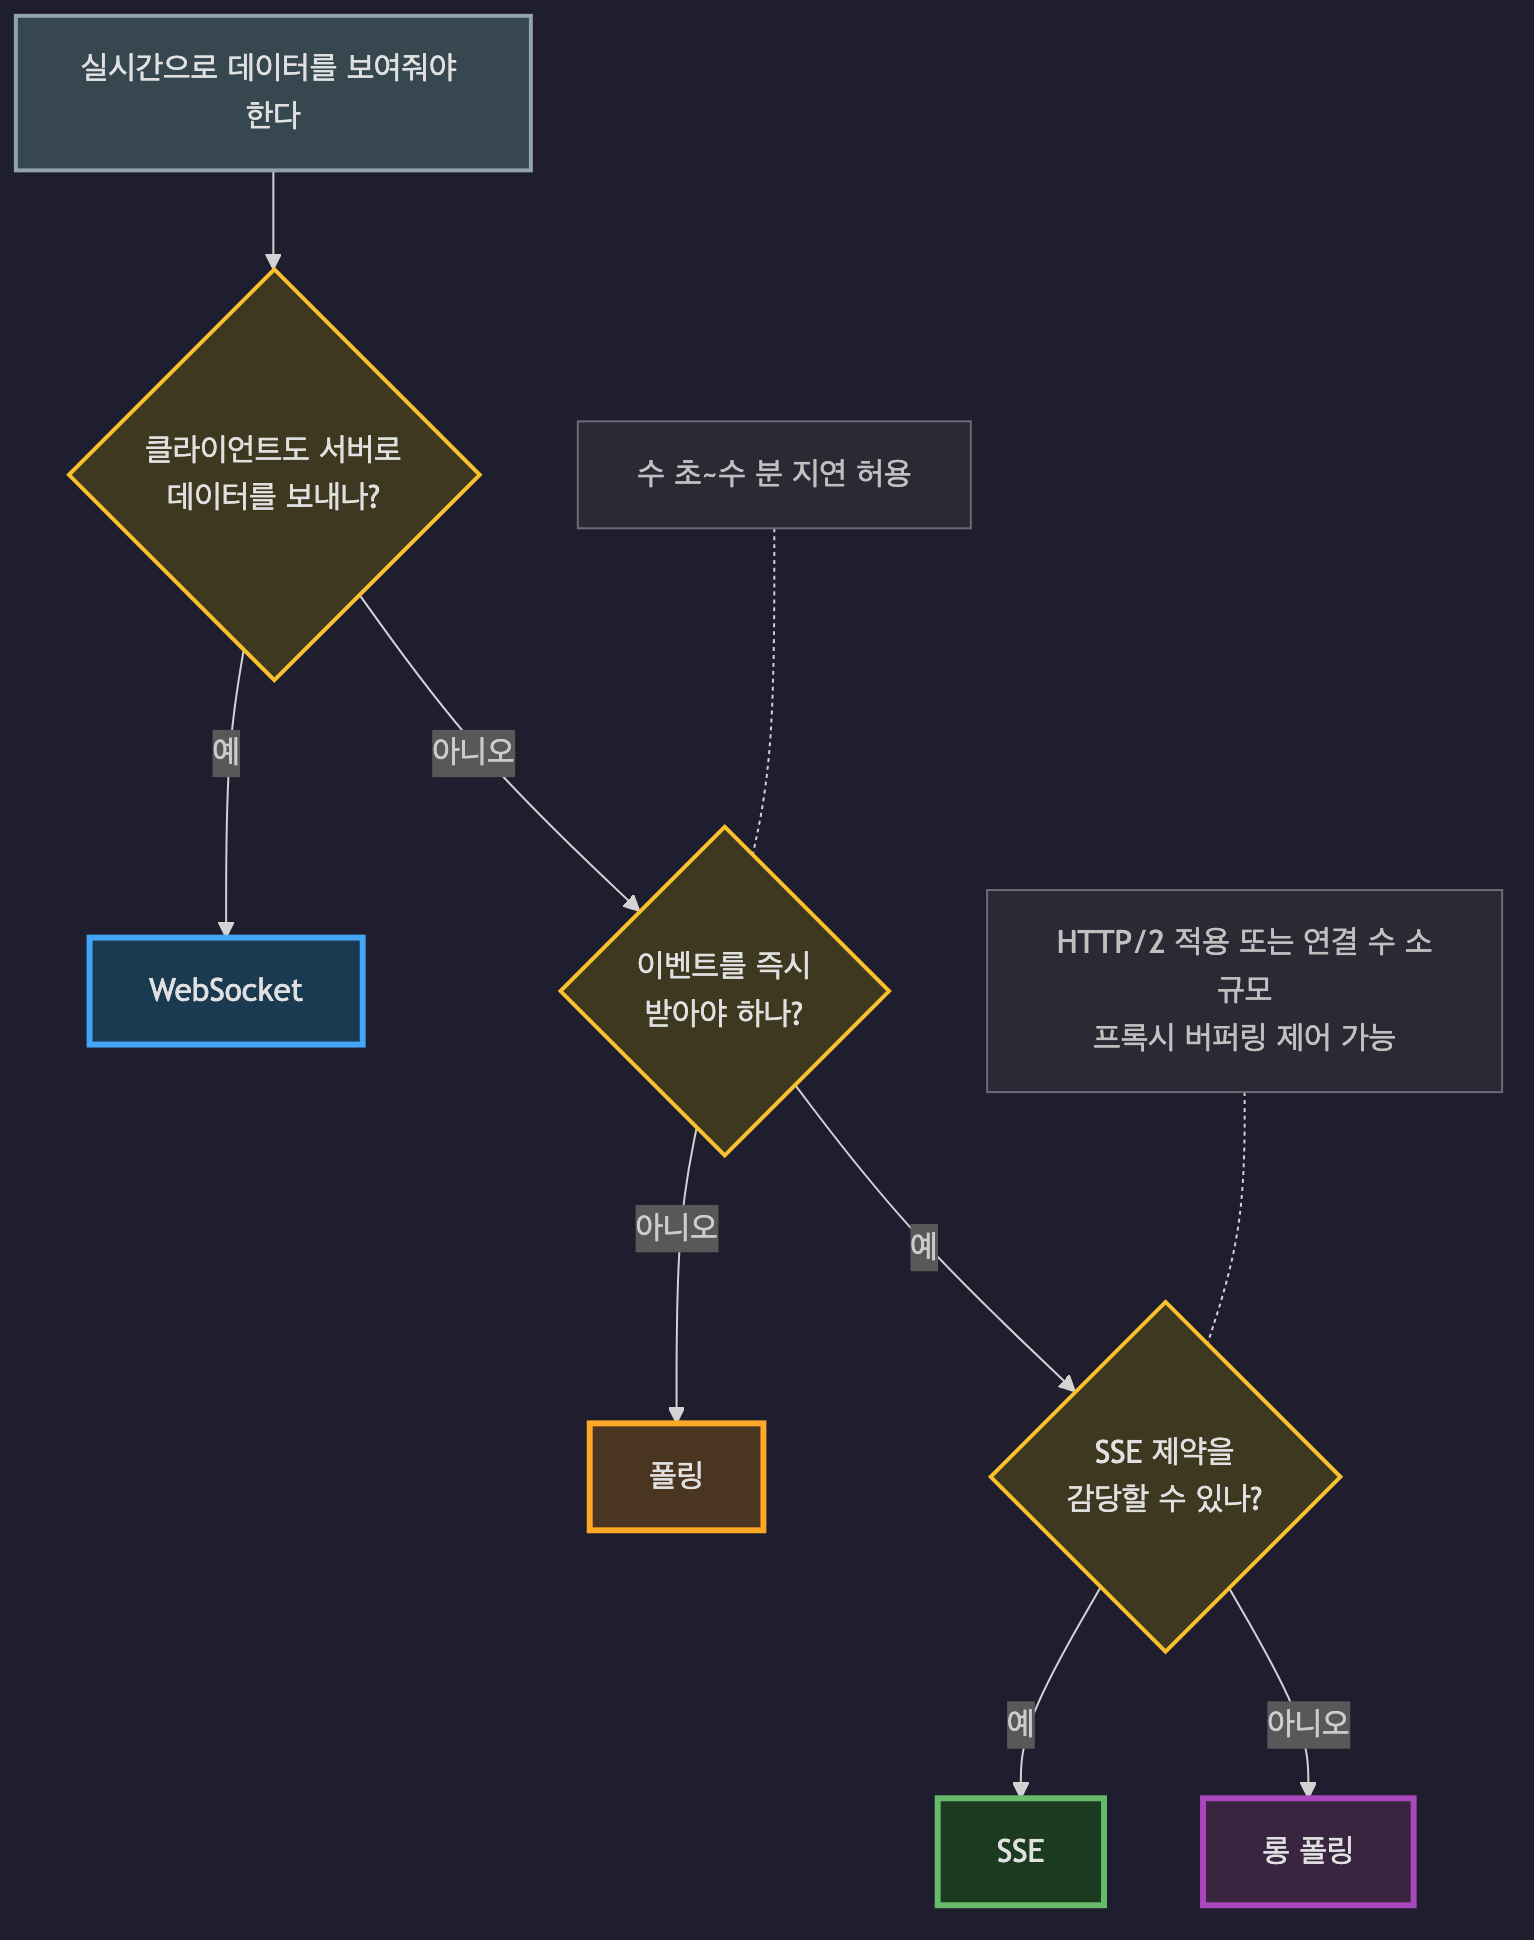
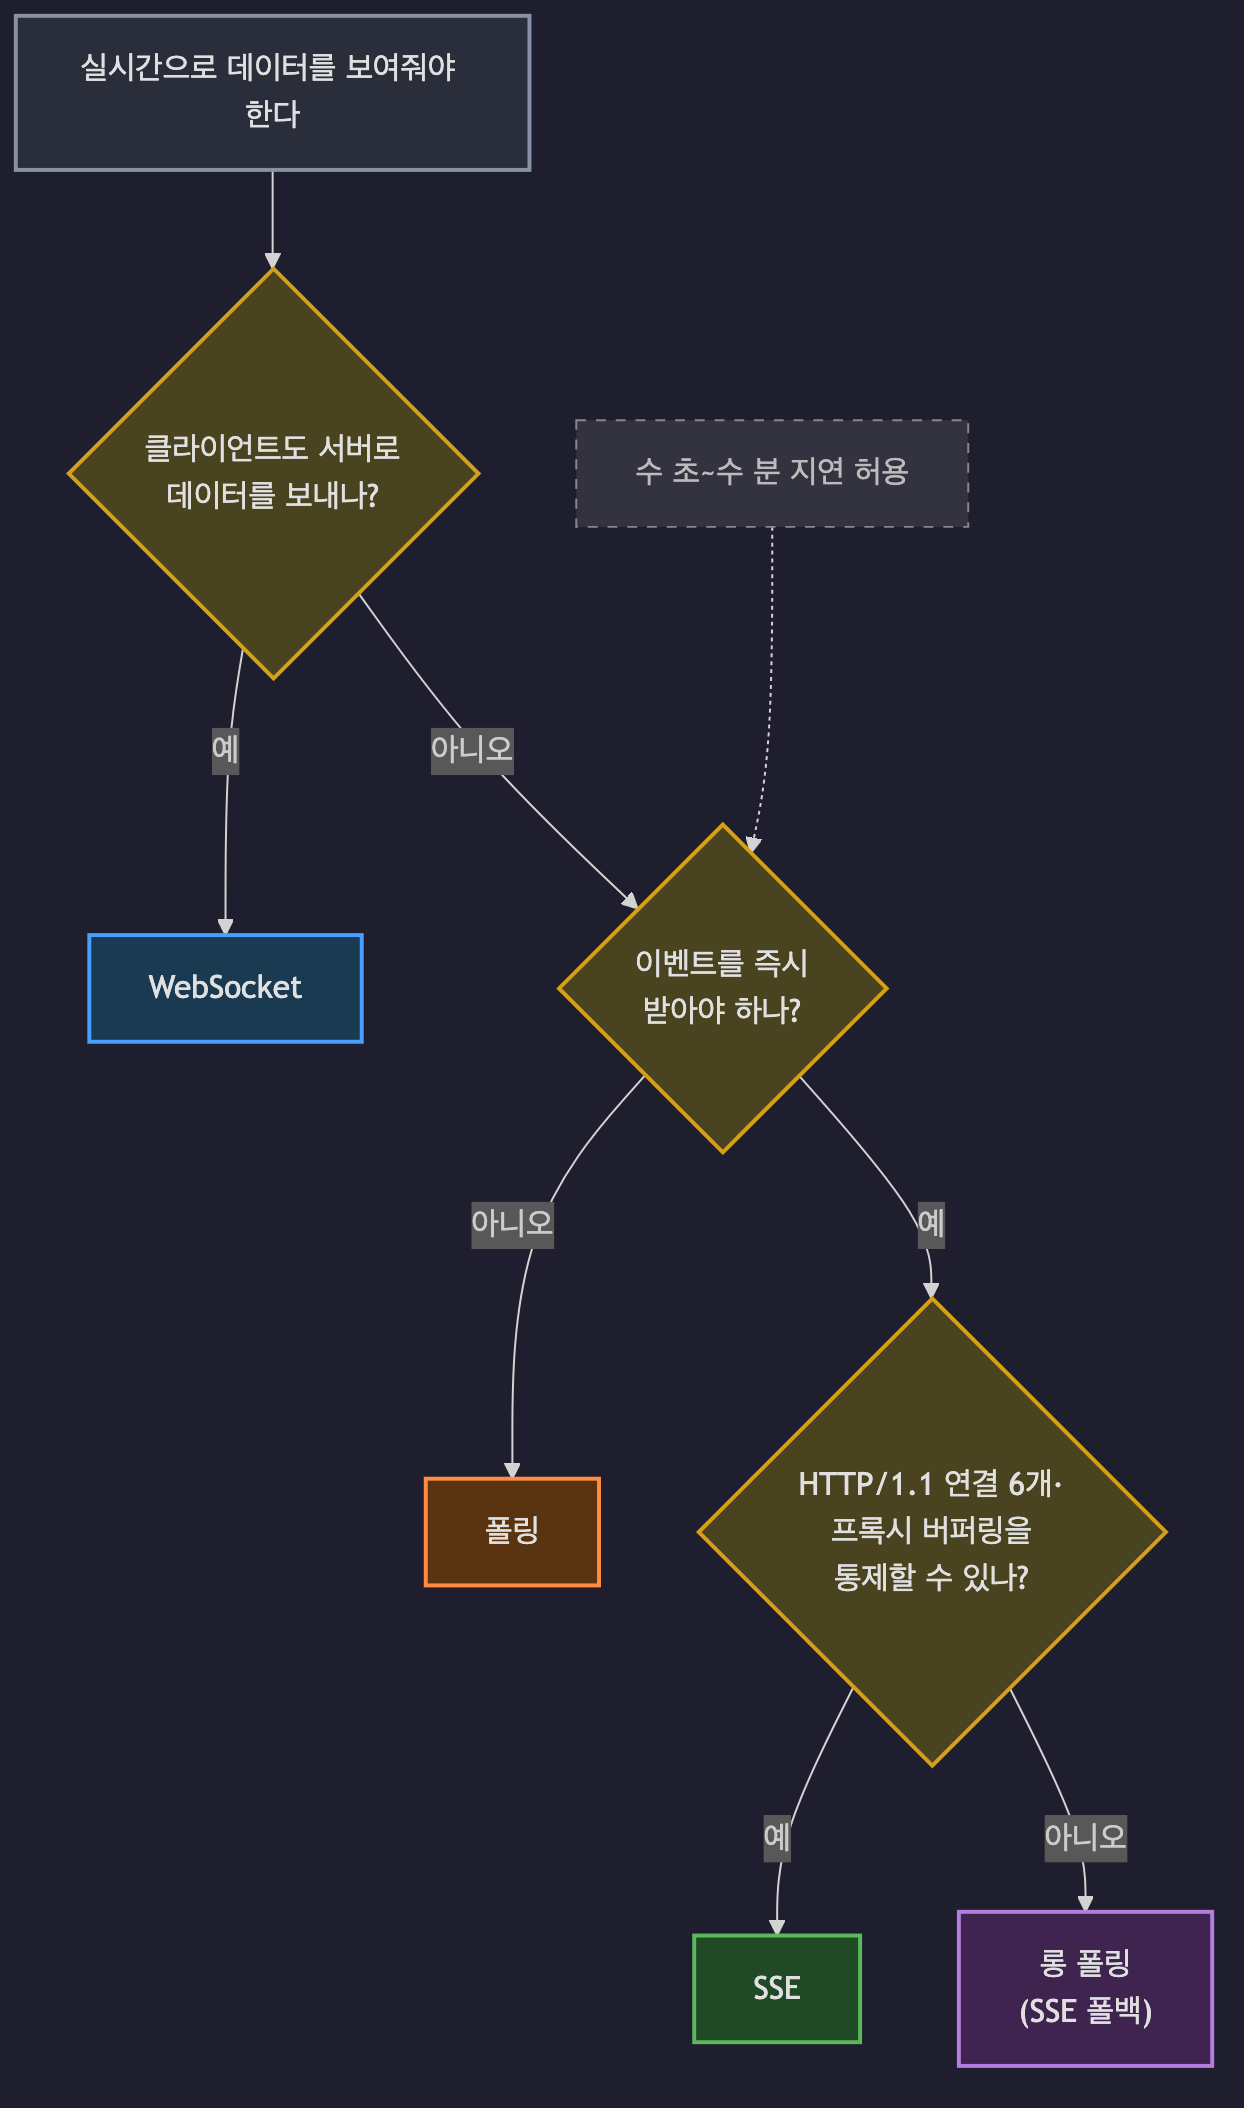
fix(blog): 선택 플로우차트의 'SSE 제약' 모호성과 롱 폴링 계층 오해 정정
마지막 분기의 'SSE 제약'이 떠 있는 점선 주석 박스로만 정의돼
분기 노드와 한 몸으로 읽히지 않았다. 추상어를 없애고 구체 조건
'HTTP/1.1 연결 6개·프록시 버퍼링을 통제할 수 있나?'를 노드에
직접 박아 주석 박스를 제거

롱 폴링이 트리 맨 끝 말단 노드에 놓여 SSE보다 나은 최종 선택처럼
읽혔다. 본문은 롱 폴링을 폴백으로 서술하는데 그림이 이를 배반했다.
말단을 '롱 폴링 (SSE 폴백)'으로 표시하고, 그림 5 뒤에 SSE 제약의
정의와 롱 폴링이 대체재임을 밝히는 단락을 추가

diff --git a/content/posts/realtime-communication-polling-sse-websocket.md b/content/posts/realtime-communication-polling-sse-websocket.md
@@ -405,6 +405,8 @@ SSE와 달리 재연결을 직접 구현해야 합니다. `onclose`에서 지수
 
 기술을 먼저 고르고 요구사항을 맞추면 과설계가 됩니다. 통신 방향, 실시간성 요구, 인프라 제약 순으로 좁혀 갑니다.
 
+그림의 마지막 분기가 인프라 제약 단계입니다. 여기서 SSE와 롱 폴링이 갈리는 조건은 앞 SSE 절에서 짚은 두 가지입니다. HTTP/1.1의 도메인당 연결 6개 제한과 프록시 버퍼링을 통제할 수 있으면 SSE로 가고, 그러지 못하는 환경에서만 롱 폴링으로 물러섭니다. 롱 폴링이 트리 맨 끝에 놓였다고 더 나은 방식은 아닙니다. SSE를 쓸 수 없을 때 같은 서버 푸시 효과를 내는 대체재이고, SSE라면 브라우저가 공짜로 주는 자동 재연결과 `Last-Event-ID` 복구를 직접 구현해야 합니다.
+
 | 기능 | 적합한 방식 | 이유 |
 |------|-----------|------|
 | 알림, 결재 요청, 뉴스 피드 | SSE | 서버 → 클라이언트 단방향, 구현이 단순하고 재연결이 자동 |
